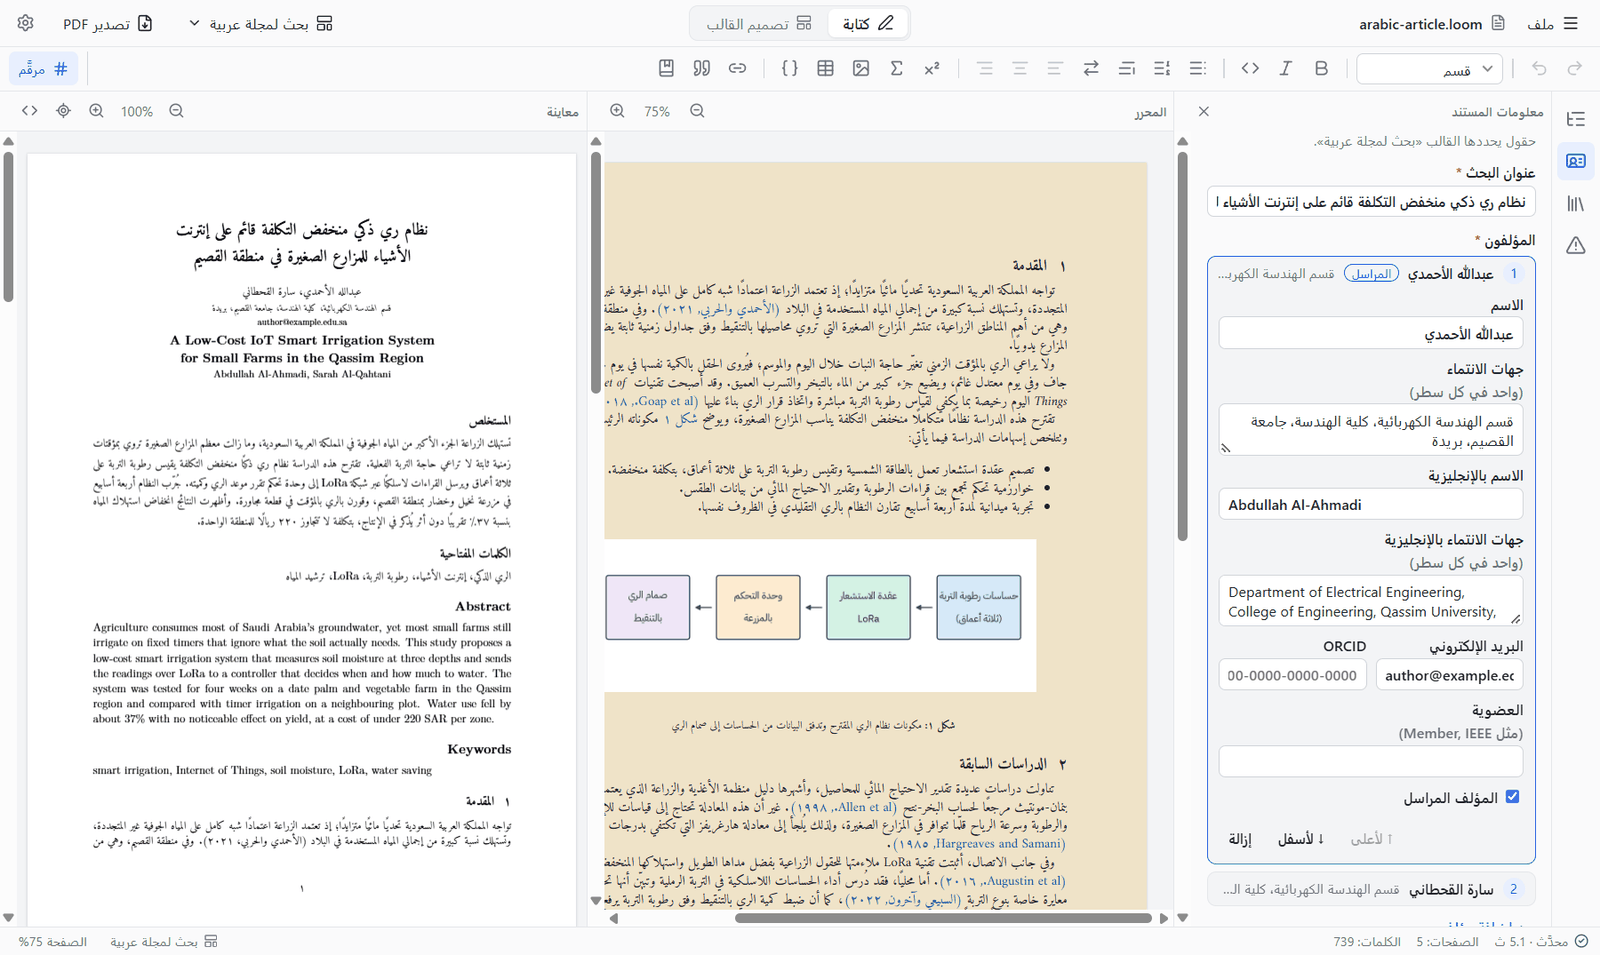
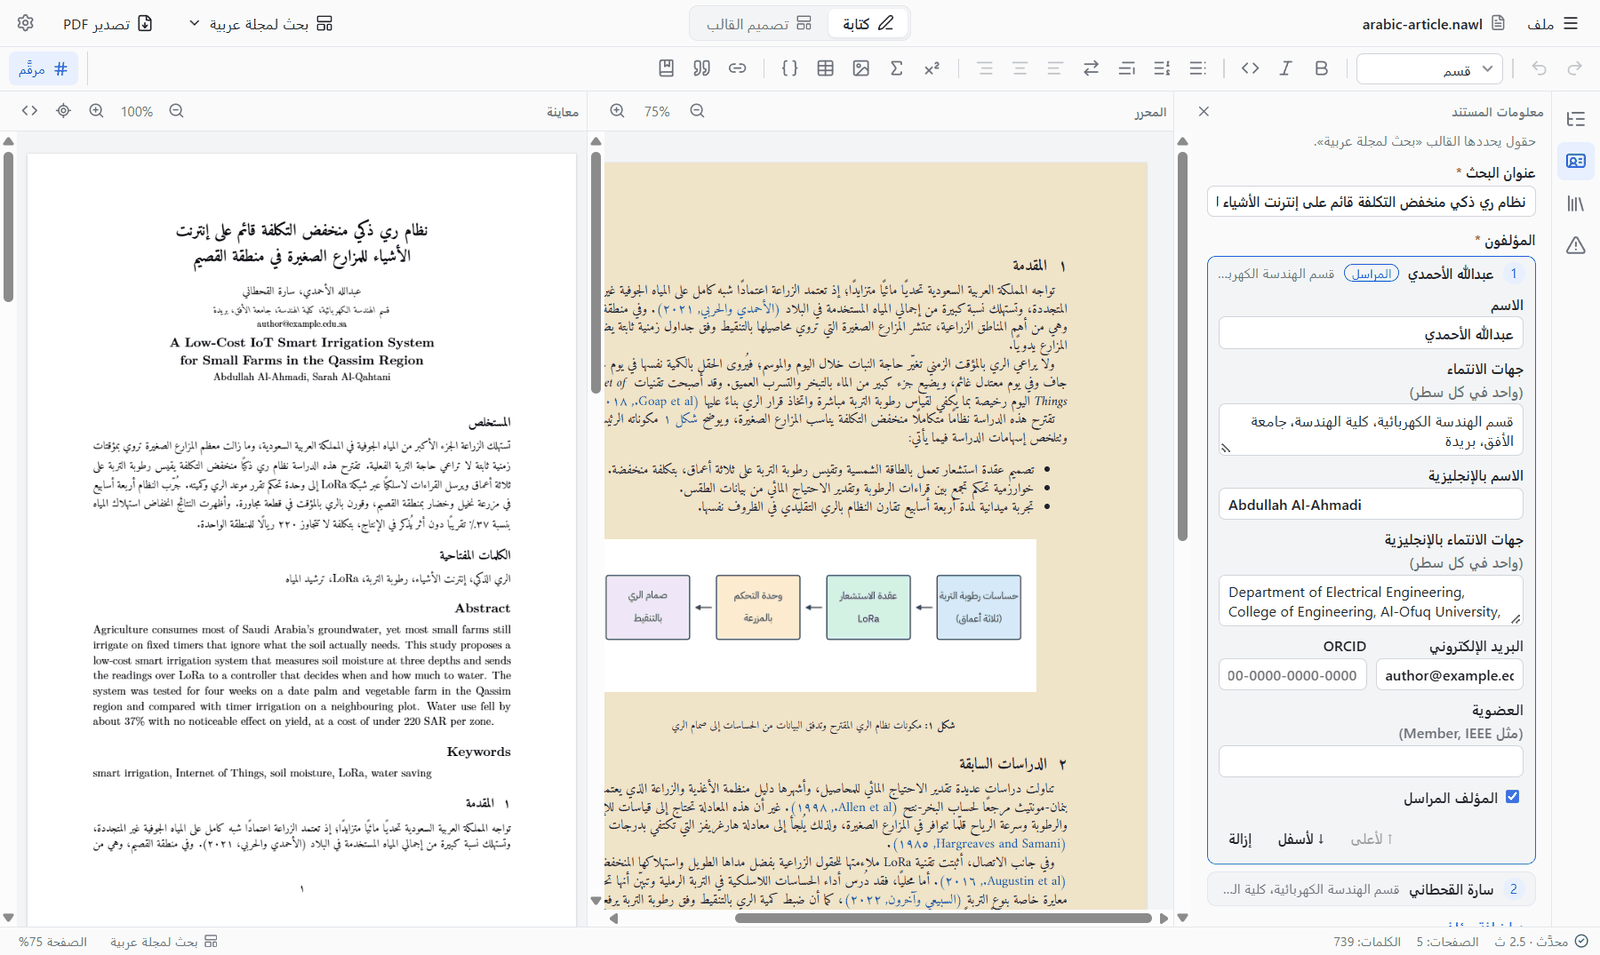
Fictional universities in the examples
The example documents and tests named real universities (King Abdulaziz, Qassim, Majmaah, King Saud) in author affiliations, a title page, an acknowledgement and a reference. They now use fictional ones (Al-Maarifa, Al-Ofuq, Al-Nakheel, Al-Waha); the Arabic screenshots in the docs are retaken to match.

diff --git a/crates/codegen/tests/arabic.rs b/crates/codegen/tests/arabic.rs
@@ -51,7 +51,7 @@ fn arabic_document() -> Document {
         ]}
     ]});
     let mut metadata = nawl_core::Metadata::new();
-    for (k, v) in [("title", "أثر التعلم العميق Deep Learning في التعليم"), ("university", "جامعة الملك عبدالعزيز"), ("department", "قسم علوم الحاسب"), ("course", "مشروع التخرج"), ("advisor", "د. أحمد علي"), ("date", "١٤٤٦هـ"), ("abstract", "ملخص البحث.")] {
+    for (k, v) in [("title", "أثر التعلم العميق Deep Learning في التعليم"), ("university", "جامعة المعرفة"), ("department", "قسم علوم الحاسب"), ("course", "مشروع التخرج"), ("advisor", "د. أحمد علي"), ("date", "١٤٤٦هـ"), ("abstract", "ملخص البحث.")] {
         metadata.insert(k.into(), nawl_core::FieldValue::Text(v.into()));
     }
     metadata.insert("team".into(), nawl_core::FieldValue::List(vec!["عبدالله الأحمدي".into()]));
@@ -519,7 +519,7 @@ fn arabic_samples() -> Vec<(&'static str, Template, Document)> {
             ("title_en", "The Effect of Deep Learning on University Education"),
             ("author", "عبدالله الأحمدي"),
             ("supervisor", "أ.د. محمد العتيبي"),
-            ("university", "جامعة الملك عبدالعزيز"),
+            ("university", "جامعة المعرفة"),
             ("college", "كلية الحاسبات وتقنية المعلومات"),
             ("department", "قسم علوم الحاسب"),
             ("degree", "الماجستير في علوم الحاسب"),
@@ -547,7 +547,7 @@ fn arabic_samples() -> Vec<(&'static str, Template, Document)> {
         ]}
     ]});
     let mut deck = Document { metadata: Default::default(), body: serde_json::from_value(slides).unwrap(), bibliography: String::new() };
-    deck = with_metadata(deck, &[("title", "التعلم الآلي في التعليم"), ("institute", "جامعة الملك عبدالعزيز")]);
+    deck = with_metadata(deck, &[("title", "التعلم الآلي في التعليم"), ("institute", "جامعة المعرفة")]);
     vec![
         ("arabic-thesis", builtin("arabic-thesis"), thesis),
         ("arabic-book", builtin("arabic-book"), book),

diff --git a/crates/codegen/tests/authors.rs b/crates/codegen/tests/authors.rs
@@ -13,8 +13,8 @@ fn author(name: &str, name_en: &str, affiliations: &[(&str, &str)]) -> AuthorInf
     }
 }
 
-const EE: (&str, &str) = ("قسم الهندسة الكهربائية، جامعة المجمعة", "Department of Electrical Engineering, Majmaah University");
-const ECE: (&str, &str) = ("قسم الهندسة الكهربائية وهندسة الحاسبات، جامعة الملك عبدالعزيز", "Department of Electrical and Computer Engineering, King Abdulaziz University");
+const EE: (&str, &str) = ("قسم الهندسة الكهربائية، جامعة النخيل", "Department of Electrical Engineering, Al-Nakheel University");
+const ECE: (&str, &str) = ("قسم الهندسة الكهربائية وهندسة الحاسبات، جامعة المعرفة", "Department of Electrical and Computer Engineering, Al-Maarifa University");
 
 #[test]
 fn numbers_only_when_affiliations_differ() {
